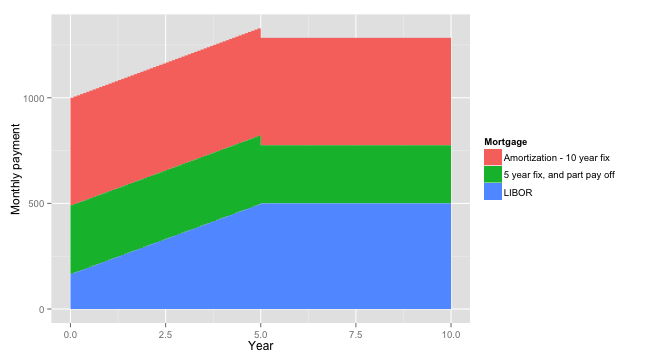
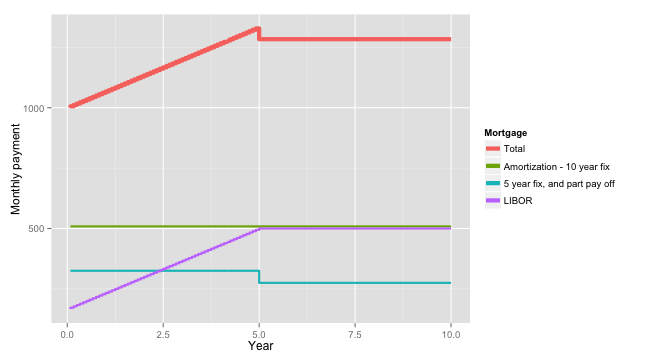
Added payments function

diff --git a/README.md b/README.md
@@ -57,21 +57,14 @@ shinyPlan <- list(
 ```
 
 
-## Add in the interest rates needed for the calculations
+## Perform the calculations
 
 ```r
-plan <- shinyPlan2plan(
+pay <- payments(
   shinyPlan = shinyPlan,
   currentFixRates = currentFixRates,
   flexRate = flexRate
   )
-```
-
-
-## Perform the calculations
-
-```r
-pay <- plan.pay(plan)
 ```
 
 
@@ -84,7 +77,7 @@ summaryPay(pay)
 
 
 <!-- html table generated in R 3.0.0 by xtable 1.7-1 package -->
-<!-- Sun Jun  9 20:54:42 2013 -->
+<!-- Mon Jun 10 20:23:50 2013 -->
 <TABLE border=1>
 <TR> <TH> Mortgage </TH> <TH> Sub mortgage </TH> <TH> Year start </TH> <TH> Year end </TH> <TH> Debt start </TH> <TH> Average rate </TH> <TH> Repayment type </TH> <TH> Interest </TH> <TH> Amortizaton </TH> <TH> Total </TH>  </TR>
   <TR> <TD> Amortization - 10 year fix </TD> <TD align="right"> 1 </TD> <TD align="right"> 0.0 </TD> <TD align="right"> 10.0 </TD> <TD align="right"> 100 000 </TD> <TD align="right"> 2.06 </TD> <TD> Amortization </TD> <TD align="right"> 16 175 </TD> <TD align="right"> 44 873 </TD> <TD align="right"> 61 048 </TD> </TR>
@@ -101,7 +94,7 @@ summaryPay(pay)
 ribbon.plot.pay(pay)
 ```
 
-![plot of chunk unnamed-chunk-9](figure/unnamed-chunk-9.png) 
+![plot of chunk unnamed-chunk-8](figure/unnamed-chunk-8.png) 
 
 
 
@@ -109,5 +102,5 @@ ribbon.plot.pay(pay)
 line.plot.pay(pay)
 ```
 
-![plot of chunk unnamed-chunk-10](figure/unnamed-chunk-10.png) 
+![plot of chunk unnamed-chunk-9](figure/unnamed-chunk-9.png) 
 
